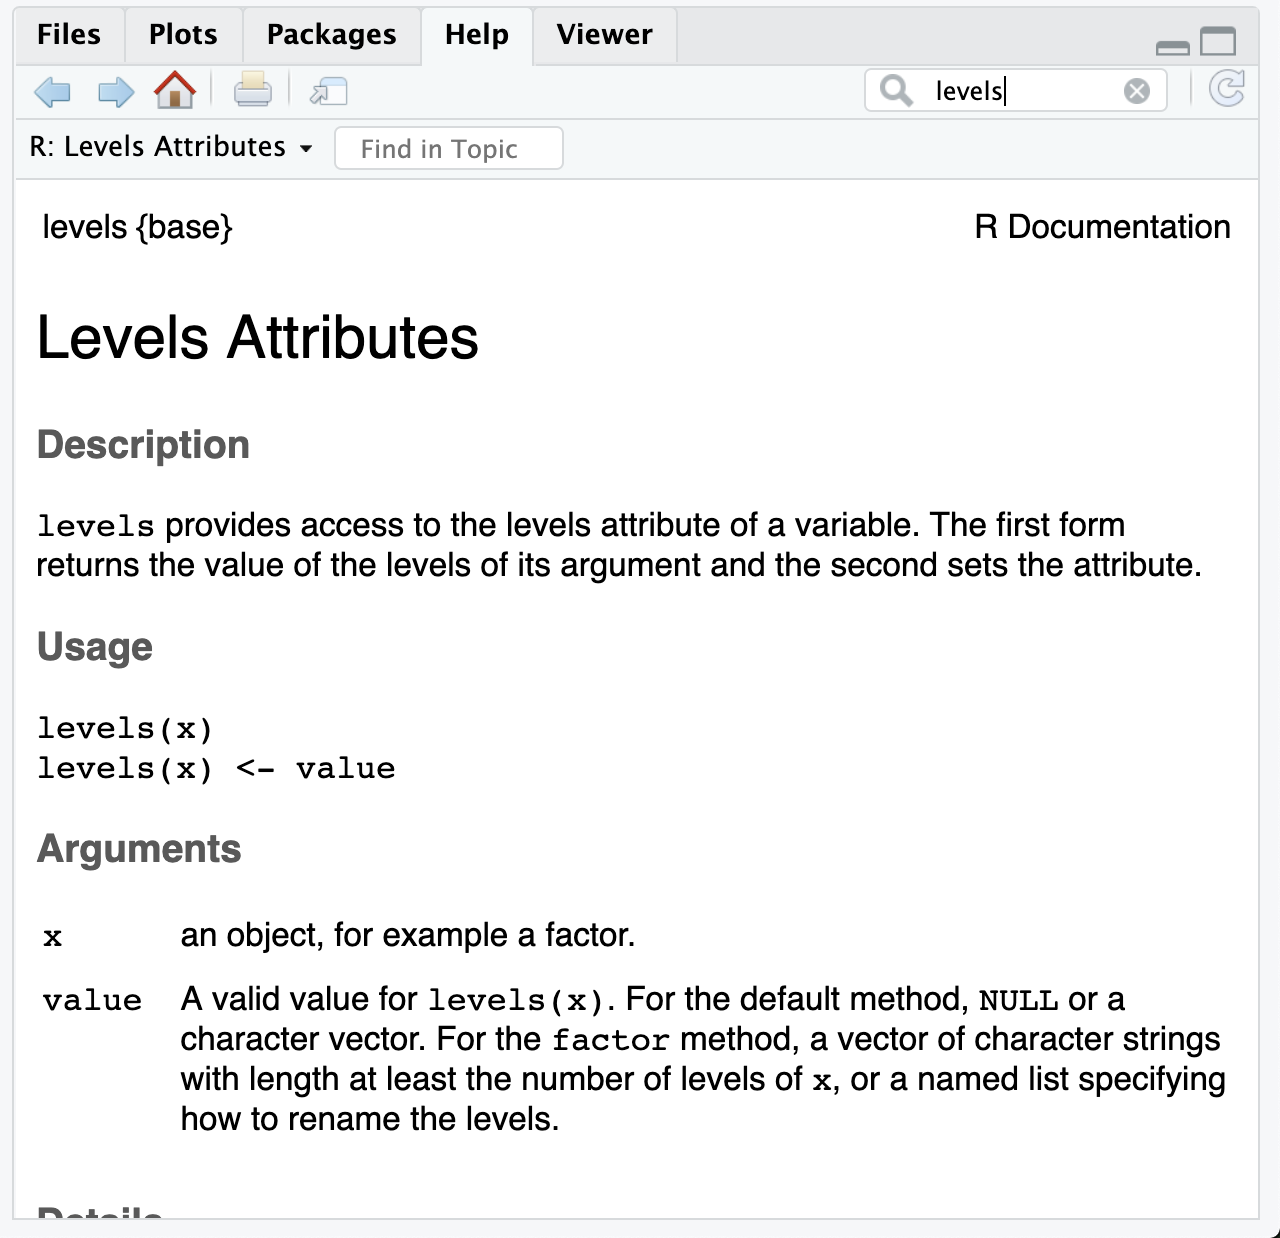
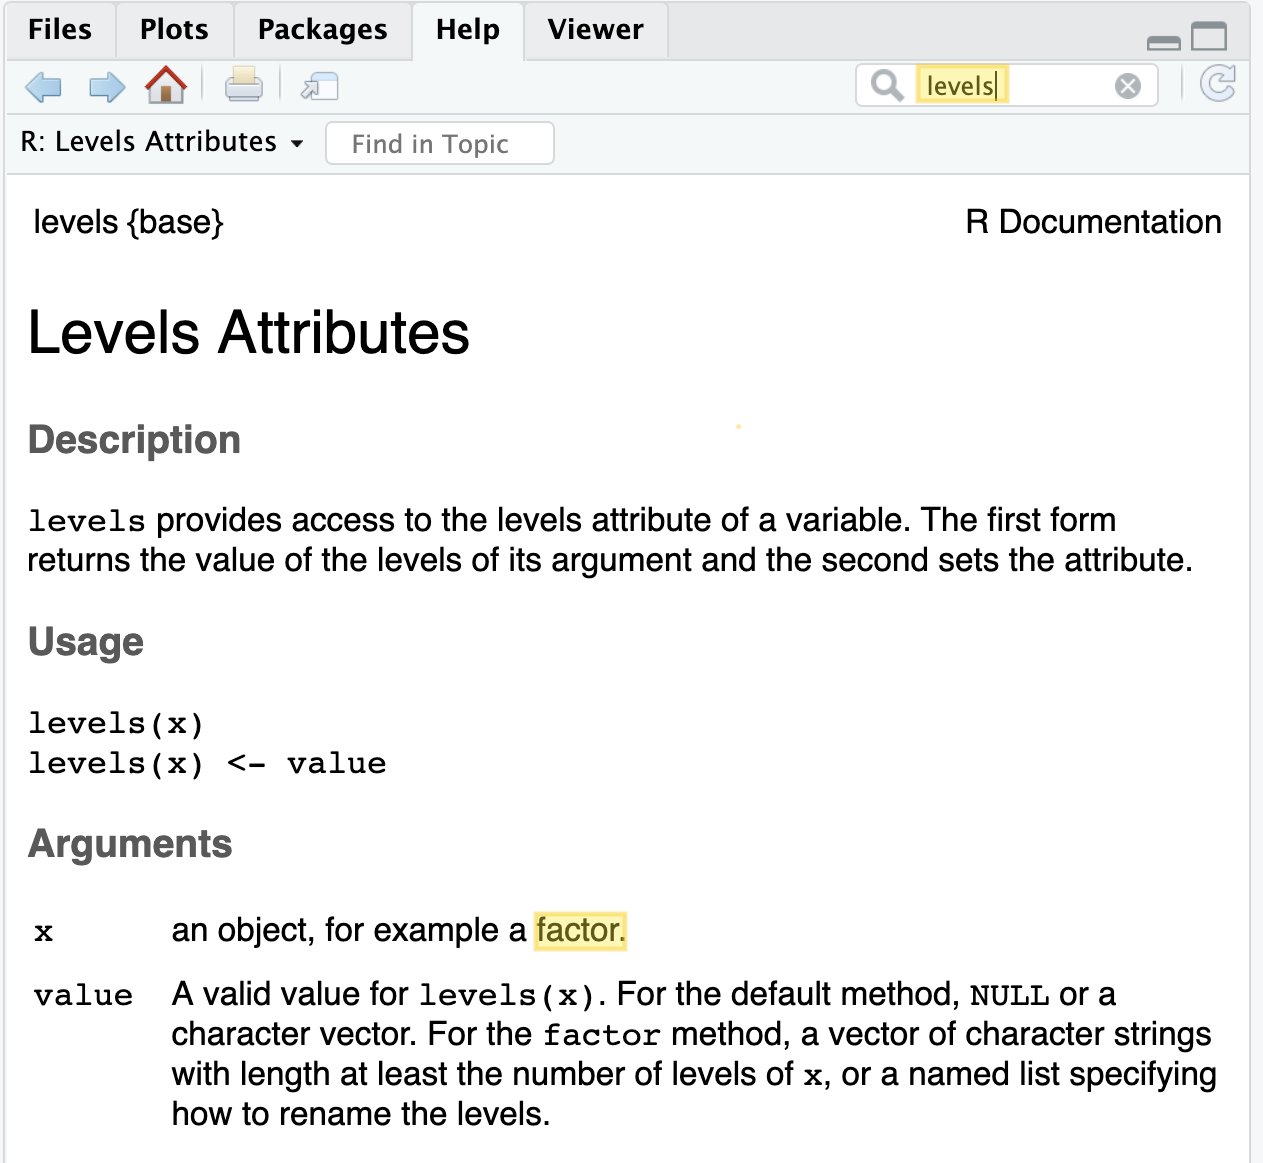
Add example and highlight to search bar

Changed region(s): [[0.0, 0.0, 0.9572, 0.9905], [0.7411, 0.0, 1.0, 1.0], [0.6793, 0.031, 0.8029, 0.0929]]

diff --git a/intro-to-R-tidyverse/00b-debugging_resources.md b/intro-to-R-tidyverse/00b-debugging_resources.md
@@ -5,9 +5,9 @@ also go through some of the most common errors that you will encounter and what
 they mean. 
 
 ## Other helpful resources: 
-https://www.r-project.org/help.html
-https://www.propublica.org/nerds/how-to-ask-programming-questions
-https://blog.hartleybrody.com/debugging-code-beginner/
+https://www.r-project.org/help.html  
+https://www.propublica.org/nerds/how-to-ask-programming-questions  
+https://blog.hartleybrody.com/debugging-code-beginner/  
 
 ## Tips for approaching error
 
@@ -17,6 +17,20 @@ origin of the error message. Isolating the source of the error and trying to
 better understand your problem, should be your first course of action. 
 The best way to determine this, is by running each line, and each phrase by 
 itself, one at a time. 
+
+Chunk-out your code and test the individual bits of code. 
+For example, if we were troubleshooting this tidyverse pipe (this is from 
+[`intro_to_tidyverse` module](https://alexslemonade.github.io/training-modules/intro-to-R-tidyverse/02-intro_to_tidyverse.nb.html)),
+it would be best to run each step by itself to ensure that it is working as well
+as investigate the resulting object from each step, and the individual inputs
+like `sample_id` and etc. 
+
+```
+metadata_pipe <- metadata %>%
+                 arrange(histology) %>%
+                 filter(follow_up_mths > 50) %>%
+                 select(sample_id, sex, organism)
+```
 
 ### 2) Be sure that the code you think you have run has all successfully run and in order. 
 It could be that the problem with your code, isn't that it doesn't work, it 
@@ -41,6 +55,10 @@ attention to what the documentation says about what kind of input and output
 the function is designed to use. 
 
 #### Use the RStudio help bar
+Here's a screenshot from the help window in RStudio. Note that here we searched
+for the `levels` function. R documentation includes information about what the
+expected arguments are as well as examples of how to use a function. Note here 
+that this documentation tells us that the input for `x` is probably a factor. 
 ![search_bar](screenshots/r_search_bar.png)
 
 #### For Bioconductor package functions, look at their documents
@@ -51,7 +69,6 @@ a Bioconductor package. We use DESeq2 in the bulk RNA-seq module.
 The documentation on Bioconductor pages have information that can be valuable 
 for troubleshooting.
 ![bioconductor_docs](screenshots/bioconductor_docs.png)
-
 
 [PDF reference manuals](https://www.bioconductor.org/packages/release/bioc/manuals/DESeq2/man/DESeq2.pdf)
 
